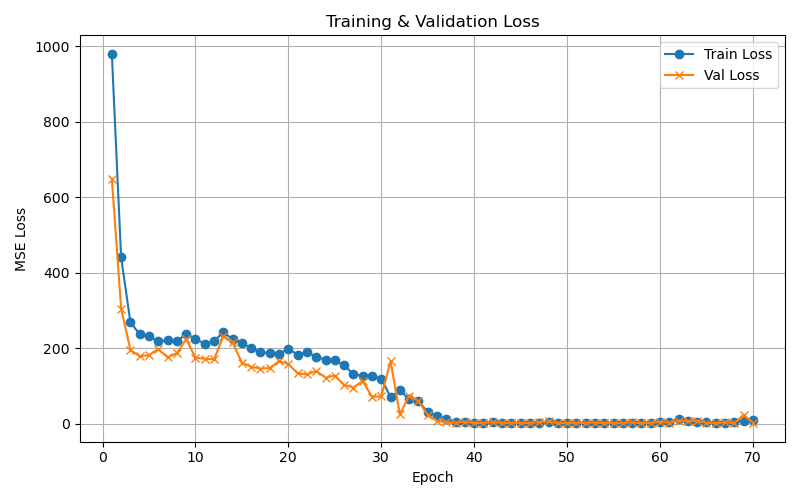
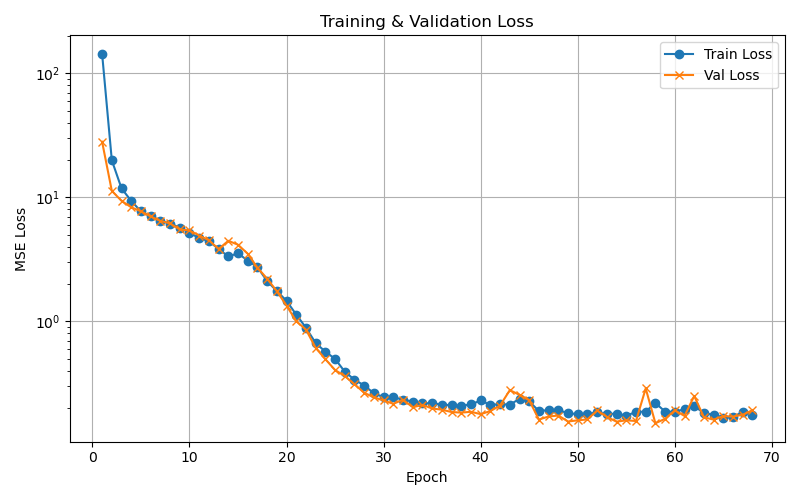
should work

diff --git a/test_autodiff.py b/test_autodiff.py
@@ -1,0 +1,150 @@
+import torch
+import torch.nn as nn
+import matplotlib.pyplot as plt
+from torchdiffeq import odeint
+import copy
+
+# ----- Ground Truth Dynamics -----
+def true_a(temp): 
+    return torch.sin(temp) * 0.5 + 1.0
+true_b = -0.8
+
+# ----- Neural Net + Trainable Parameter -----
+class Thinker(nn.Module):
+    def __init__(self):
+        super().__init__()
+        self.net = nn.Sequential(
+            nn.Linear(1, 32),
+            nn.Tanh(),
+            nn.Linear(32, 1)
+        )
+        self.b_raw = nn.Parameter(torch.tensor(0.0))  # unbounded raw param
+
+    def forward(self, temp):
+        # Clamp outputs to smaller range for stability
+        a = torch.tanh(self.net(temp)) * 1 + 1  # a in [-0.5, 0.5]
+        b = torch.tanh(self.b_raw) * 1      # b in [-0.5, 0.5]
+        return a.squeeze(), b
+
+# ----- ODE Function for torchdiffeq -----
+class ODEFunc(nn.Module):
+    def __init__(self, model, temps, times):
+        super().__init__()
+        self.model = model
+        self.temps = temps
+        self.times = times
+
+    def forward(self, t, x):
+        # Clamp index to avoid out-of-bounds
+        raw_idx = (t / self.times[-1]) * (len(self.temps) - 1)
+        idx = int(torch.clamp(raw_idx, 0, len(self.temps) - 1))
+        temp_t = self.temps[idx].unsqueeze(0).unsqueeze(0)
+        a_t, b = self.model(temp_t)
+        return a_t * x + b * torch.sin(x)
+
+# ----- Ground Truth Simulation -----
+def generate_ground_truth(times, temps):
+    x = torch.tensor([1.0])
+    x_vals = []
+
+    for i, t in enumerate(times):
+        temp = temps[i].unsqueeze(0)
+        a = true_a(temp)
+        dxdt = a * x + true_b * torch.sin(x)
+        dt = times[1] - times[0]
+        x = x + dxdt * dt
+        x_vals.append(x.item())
+
+    return torch.tensor(x_vals)
+
+# ----- Training with Restart on Blow-up -----
+def train(model, times, temps, x_true, n_epochs=2000, lr=1e-2, max_retries=3):
+    optimizer = torch.optim.Adam(model.parameters(), lr=lr)
+    loss_fn = nn.MSELoss()
+    losses = []
+
+    last_good_state = copy.deepcopy(model.state_dict())
+    last_good_optimizer = copy.deepcopy(optimizer.state_dict())
+
+    for epoch in range(n_epochs):
+        for attempt in range(max_retries):
+            try:
+                optimizer.zero_grad()
+
+                ode_func = ODEFunc(model, temps, times)
+                x0 = torch.tensor([1.0])
+                x_pred = odeint(
+                    ode_func, x0, times, 
+                    method='dopri5', atol=1e-5, rtol=1e-5
+                )
+
+                loss = loss_fn(x_pred.squeeze(), x_true)
+
+                # Check for NaNs or huge values => blow up
+                if (torch.isnan(loss) or
+                    loss.item() > 1e4 or
+                    torch.any(torch.isnan(x_pred)) or
+                    torch.any(torch.abs(x_pred) > 1e3)):
+                    raise ValueError("ODE blow-up detected")
+
+                loss.backward()
+
+                # Gradient clipping for stability
+                torch.nn.utils.clip_grad_norm_(model.parameters(), max_norm=1.0)
+
+                optimizer.step()
+
+                # Save good state
+                last_good_state = copy.deepcopy(model.state_dict())
+                last_good_optimizer = copy.deepcopy(optimizer.state_dict())
+
+                print(f"[Epoch {epoch}] Loss: {loss.item():.6f} | b: {model.b_raw.item():.6f}")
+                losses.append(loss.item())
+                break  # exit retry loop on success
+
+            except Exception as e:
+                print(f"[Epoch {epoch}] Attempt {attempt+1}/{max_retries} blow-up: {e}")
+
+                # Restore last good state to avoid compounding errors
+                model.load_state_dict(last_good_state)
+                optimizer.load_state_dict(last_good_optimizer)
+
+                # Reduce learning rate to stabilize training
+                for param_group in optimizer.param_groups:
+                    old_lr = param_group['lr']
+                    param_group['lr'] = old_lr * 0.5
+                    print(f"Reducing learning rate from {old_lr} to {param_group['lr']}")
+
+                if attempt == max_retries - 1:
+                    raise RuntimeError(f"Training failed after {max_retries} attempts at epoch {epoch}")
+
+    return losses, x_pred
+
+# ----- Main -----
+if __name__ == "__main__":
+    import os
+    os.environ["KMP_DUPLICATE_LIB_OK"]="TRUE"
+    # Setup time and temperature signal
+    T, dt = 10.0, 0.05
+    times = torch.arange(0, T, dt)
+    temps = times.clone() + 1 # e.g., T(t) = t
+
+    # Generate ground truth
+    x_true = generate_ground_truth(times, temps)
+
+    # Initialize model
+    model = Thinker()
+
+    # Train model
+    losses, x_pred = train(model, times, temps, x_true, n_epochs=2000, lr=1e-2)
+
+    # Plot results
+    plt.figure(figsize=(10, 4))
+    plt.plot(times, x_true, label="Ground Truth")
+    plt.plot(times, x_pred.detach().squeeze(), '--', label="Predicted")
+    plt.legend()
+    plt.title("Neural ODE Simulation with Safe Restart & Gradient Clipping")
+    plt.xlabel("Time")
+    plt.ylabel("x(t)")
+    plt.tight_layout()
+    plt.show()

diff --git a/seta/core/simulation.py b/seta/core/simulation.py
@@ -171,6 +171,8 @@ class Simulator:
             for phase in ["sense", "evolve", "think", "act"]:
                 avg_time = phase_times[phase] / self.T_max
                 print(f"{phase.capitalize():>7}: {avg_time:.4f} sec")
+
+                
         if mode=="train":
             return torch.cat(preds_run, dim=0)  # Tensor of shape (T,)
         if mode=="infer":
